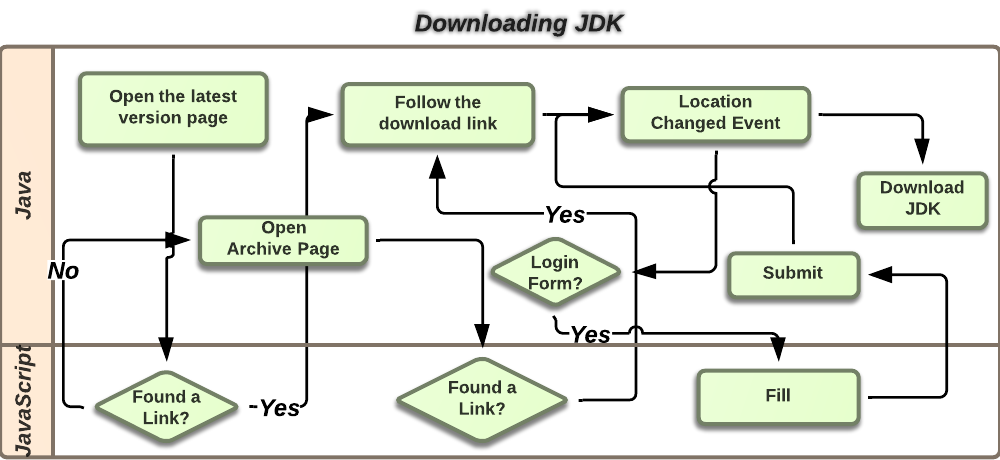
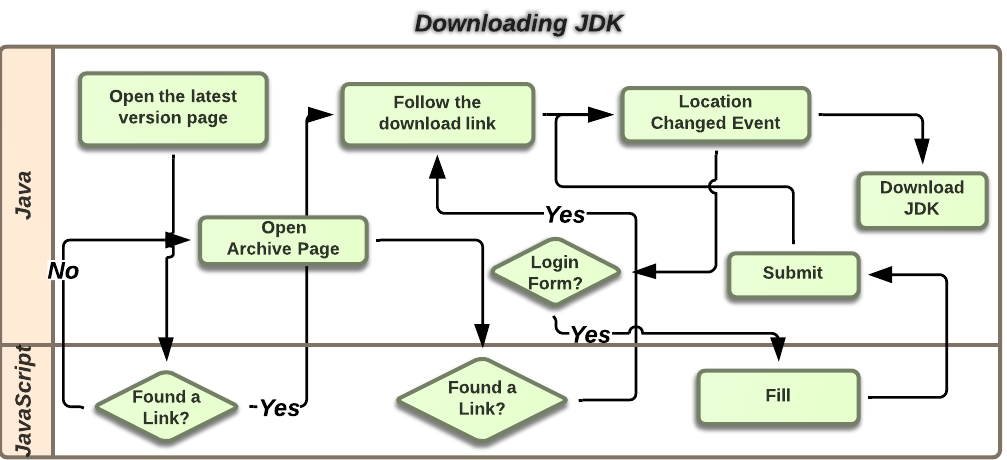
Updated 'downloading Java'.

diff --git a/_posts/2014-01-26-downloading-java-with-java.html b/_posts/2014-01-26-downloading-java-with-java.html
@@ -16,8 +16,8 @@ description:
 <p>When downloading the latest stable version of JDK from <a
         href="http://www.oracle.com/technetwork/java/javase/downloads/jdk7-downloads-1880260.html">Oracle.com</a>, a user will require only two clicks:</p>
 
-<a href="/img/posts/2014-01-26-downloading-java-with-java/oracleCom.png">
-    <img height="300" src="/img/posts/2014-01-26-downloading-java-with-java/oracleCom.png" alt="Downloading JDK 7 at Oracle.com"/></a>
+<div style="text-align: center"><a href="/img/posts/2014-01-26-downloading-java-with-java/oracleCom.png">
+    <img height="300" src="/img/posts/2014-01-26-downloading-java-with-java/oracleCom.png" alt="Downloading JDK 7 at Oracle.com"/></a></div>
 <hr/>
 <p>In this article I will only highlight the most interesting moments of solving this task with Java, if you have any question, leave them in the comment section below and I will answer and update the article.</p>
 
@@ -75,8 +75,8 @@ public static void main(String[] args){
         href="http://www.oracle.com/technetwork/java/javase/downloads/jdk7-downloads-1880260.html">The Latest JDK Version Page</a> or
     <a href="http://www.oracle.com/technetwork/java/archive-139210.html">Oracle Java Archive</a>. Some of the elements of this scheme are described below in more detail.</p>
 
-<a href="/img/posts/2014-01-26-downloading-java-with-java/downloading-JDK.png">
-    <img height="250" src="/img/posts/2014-01-26-downloading-java-with-java/downloading-JDK.png" alt="Downloading JDK Scheme"/></a>
+<div style="text-align: center"><a href="/img/posts/2014-01-26-downloading-java-with-java/downloading-JDK.png">
+    <img height="250" src="/img/posts/2014-01-26-downloading-java-with-java/downloading-JDK.png" alt="Downloading JDK Scheme"/></a></div>
 
 <h3>SimpleBrowser</h3>
 
